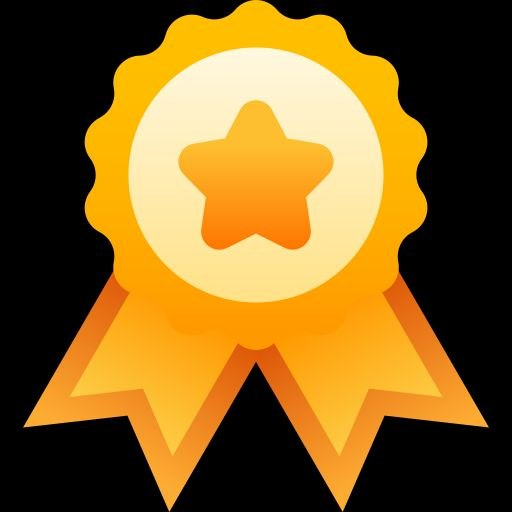
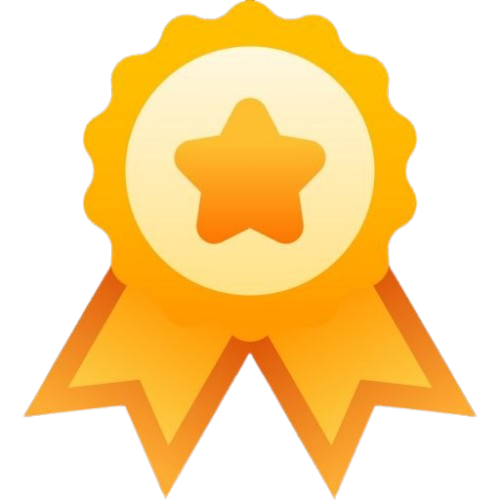
Fix

diff --git a/app/api/generate-certificate/route.ts b/app/api/generate-certificate/route.ts
@@ -39,6 +39,8 @@ import { cookies } from 'next/headers';
 import { createServerClient } from '@supabase/ssr';
 import { createClient, type SupabaseClient } from '@supabase/supabase-js';
 import PDFDocument from 'pdfkit';
+import fs from 'node:fs';
+import path from 'node:path';
 
 // ---------------------------------------------------------------------------
 // Route configuration
@@ -90,6 +92,36 @@ const NOT_ELIGIBLE_MESSAGE =
  * collapsing to zero.
  */
 const DEFAULT_QUESTIONS_PER_LESSON = 10;
+
+// ---------------------------------------------------------------------------
+// Local asset loader — reads PNGs from `public/` for PDF embedding
+// ---------------------------------------------------------------------------
+//
+// Returns `null` on any failure (missing file, permissions, unsupported
+// filesystem) so the certificate PDF can still be generated — just without
+// the signature / seal — instead of throwing a 500 to the client.
+//
+// PNG transparency is preserved natively by PDFKit, so a correctly-authored
+// transparent PNG renders with no background box.
+// ---------------------------------------------------------------------------
+function loadPublicImage(filename: string): Buffer | null {
+  try {
+    const fullPath = path.join(process.cwd(), 'public', filename);
+    if (!fs.existsSync(fullPath)) {
+      console.warn(
+        `[generate-certificate] Optional asset not found (PDF will render without it): ${fullPath}`
+      );
+      return null;
+    }
+    return fs.readFileSync(fullPath);
+  } catch (err) {
+    console.warn(
+      `[generate-certificate] Failed to read optional asset "${filename}":`,
+      err instanceof Error ? err.message : String(err)
+    );
+    return null;
+  }
+}
 
 // ---------------------------------------------------------------------------
 // Supabase service-role client (lazy, cached) — anon-key fallback
@@ -899,14 +931,82 @@ function generateCertificatePdf(opts: {
         y += 20;
       }
 
+      // ---------------------------------------------------------------------
+      // Digital signature — embedded from `public/signature.png`
+      //
+      // The PNG floats immediately above the horizontal rule, centered on
+      // the signature column. PDFKit preserves the PNG's alpha channel, so
+      // a correctly-authored transparent PNG renders cleanly with no
+      // background box.
+      //
+      // If the file is missing or unreadable, `loadPublicImage` returns
+      // `null` and we simply skip the image — the rule line and caption
+      // below still render so the certificate stays visually complete.
+      // ---------------------------------------------------------------------
       const sigY = 468;
       const sigHalf = 80;
+
+      const signatureBuffer = loadPublicImage('signature.png');
+      if (signatureBuffer) {
+        const sigBoxW = 180;
+        const sigBoxH = 45;
+        const sigBoxX = cx - sigBoxW / 2;
+        const sigBoxY = sigY - sigBoxH - 4; // sits just above the rule line
+
+        try {
+          doc.image(signatureBuffer, sigBoxX, sigBoxY, {
+            fit: [sigBoxW, sigBoxH],
+            align: 'center',
+            valign: 'bottom',
+          });
+        } catch (sigErr) {
+          console.warn(
+            '[generate-certificate] Failed to embed signature image:',
+            sigErr instanceof Error ? sigErr.message : String(sigErr)
+          );
+        }
+      }
+
+      // Horizontal rule + caption below the signature image.
       doc.moveTo(cx - sigHalf, sigY).lineTo(cx + sigHalf, sigY)
         .lineWidth(0.5).strokeColor(SLATE).stroke();
       doc.fillColor(SLATE).font('Helvetica-Oblique').fontSize(9)
         .text('Authorized Signature', cx - sigHalf, sigY + 5, {
           width: sigHalf * 2, align: 'center',
         });
+
+      // ---------------------------------------------------------------------
+      // Official seal — embedded from `public/seal.png`
+      //
+      // Anchored in the bottom-right corner, inside the inner border ring
+      // and above the footer labels. The box is fixed at 100×100pt so the
+      // seal never collides with the book list (which ends around y≈436 on
+      // the right side is empty) or the footer text (y≈517).
+      //
+      // PDFKit preserves the PNG's alpha channel — a properly-authored
+      // transparent seal renders with no black background box.
+      // ---------------------------------------------------------------------
+      const sealBuffer = loadPublicImage('seal.png');
+      if (sealBuffer) {
+        const sealBoxW = 100;
+        const sealBoxH = 100;
+        const sealRightMargin = 70; // from PAGE_W
+        const sealBoxX = PAGE_W - sealRightMargin - sealBoxW;
+        const sealBoxY = 380;
+
+        try {
+          doc.image(sealBuffer, sealBoxX, sealBoxY, {
+            fit: [sealBoxW, sealBoxH],
+            align: 'center',
+            valign: 'center',
+          });
+        } catch (sealErr) {
+          console.warn(
+            '[generate-certificate] Failed to embed seal image:',
+            sealErr instanceof Error ? sealErr.message : String(sealErr)
+          );
+        }
+      }
 
       const footLabelY = PAGE_H - 78;
       const footValueY = PAGE_H - 62;
